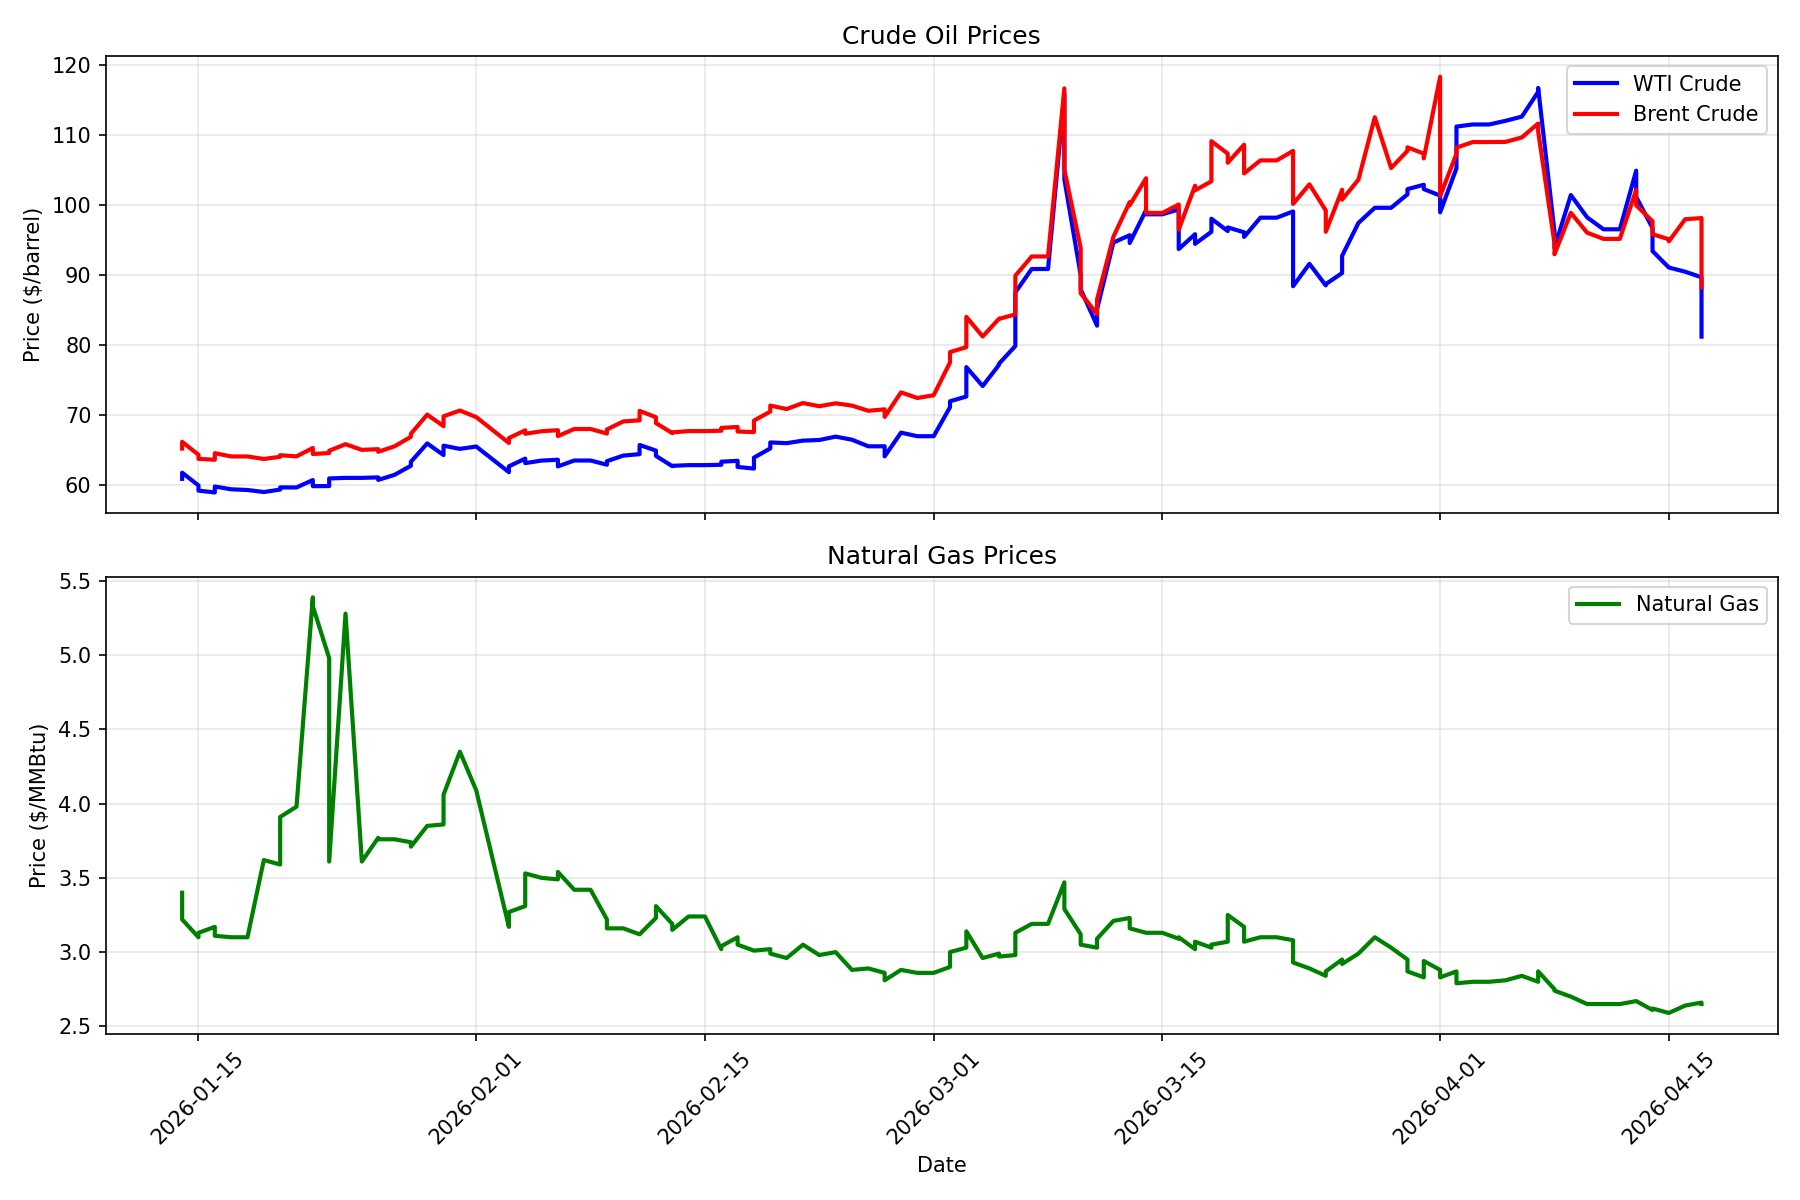
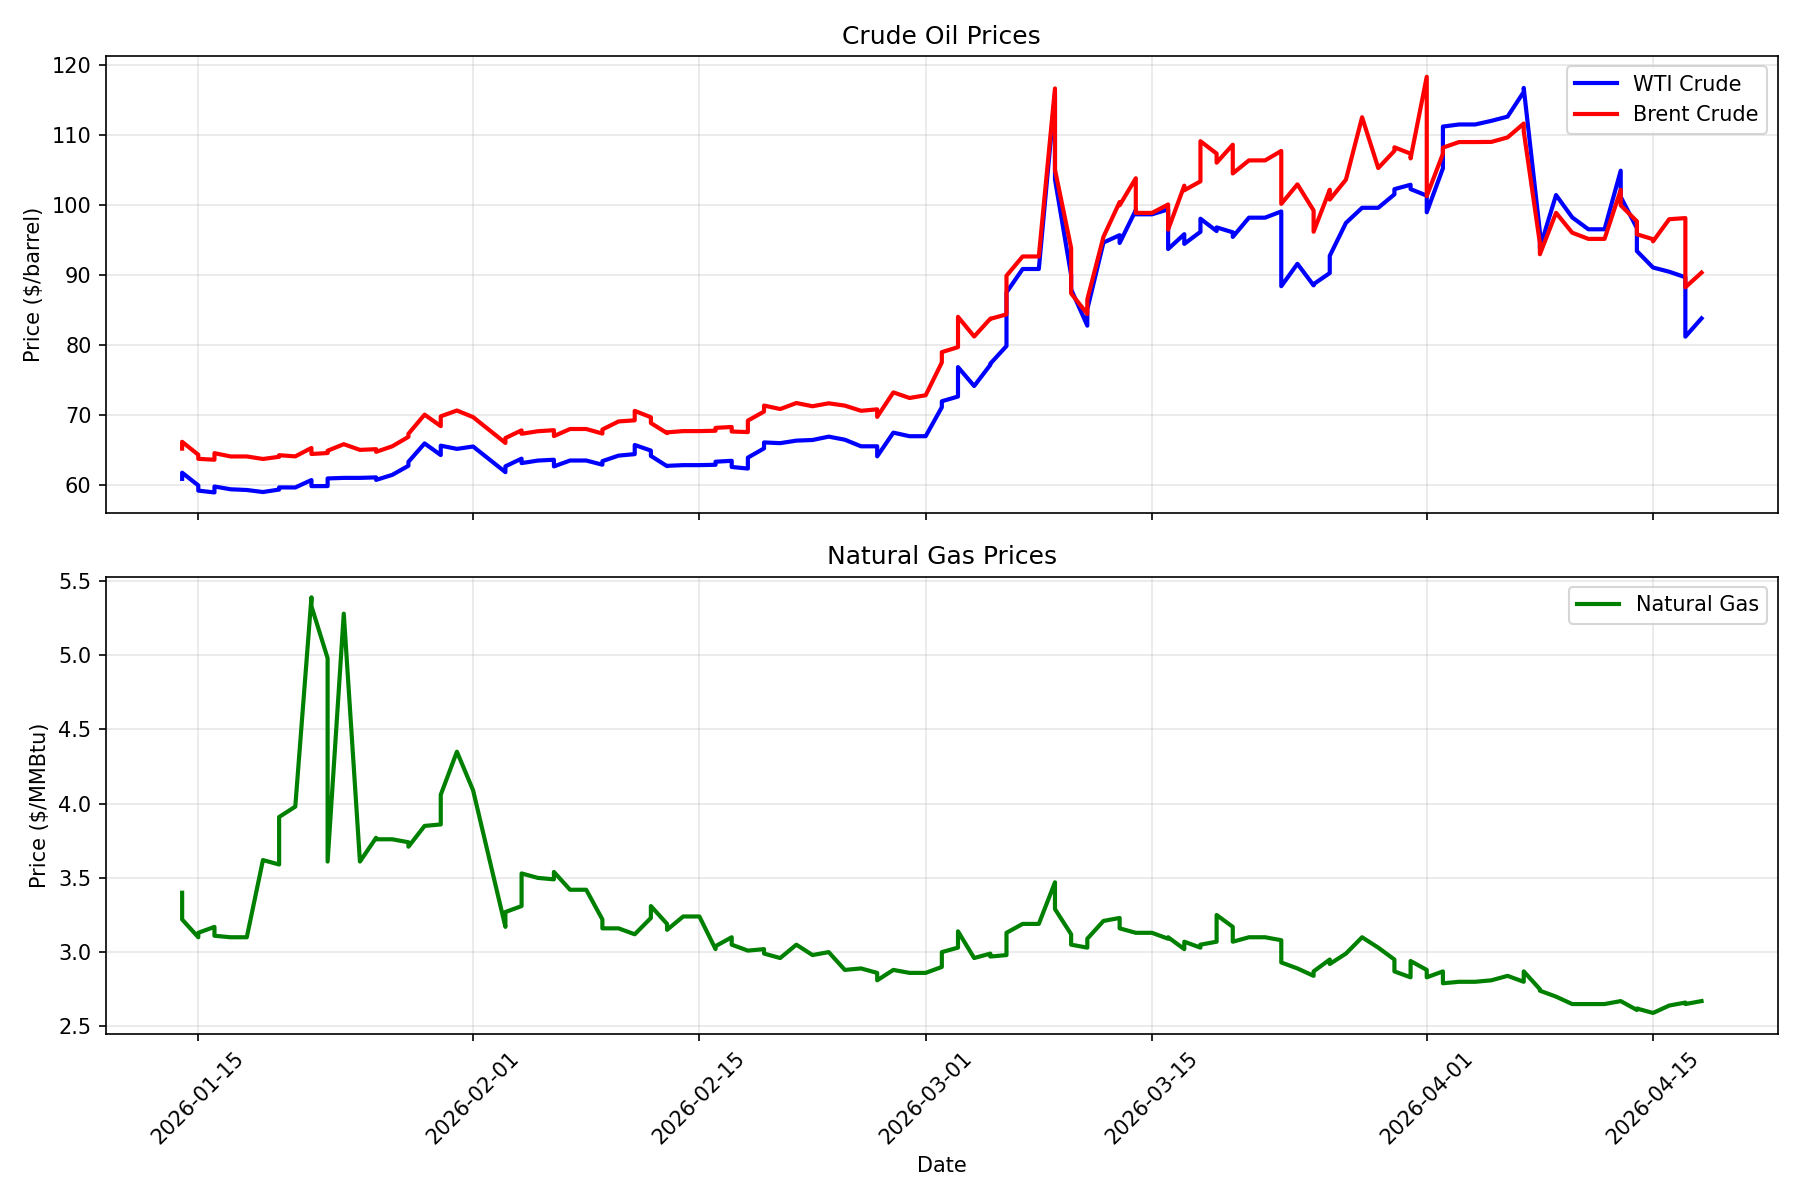
Daily price update: 2026-04-18

diff --git a/README.md b/README.md
@@ -2,29 +2,29 @@
 
 Automated daily tracking of chemical commodity prices and chemical company stocks.
 
-## Latest Prices (Updated: 2026-04-17)
+## Latest Prices (Updated: 2026-04-18)
 
 ### Energy Commodities
 
 | Commodity | Price | Change (24h) | Unit |
 |-----------|-------|--------------|------|
-| WTI Crude Oil | $81.24 | -13.45 (-14.20%) | $/barrel |
-| Brent Crude Oil | $88.29 | -11.10 (-11.17%) | $/barrel |
-| Natural Gas | $2.65 | +0.01 (+0.23%) | $/MMBtu |
-| Heating Oil | $3.22 | -0.61 (-16.03%) | $/gallon |
+| WTI Crude Oil | $83.85 | -10.84 (-11.45%) | $/barrel |
+| Brent Crude Oil | $90.38 | -9.01 (-9.07%) | $/barrel |
+| Natural Gas | $2.67 | +0.03 (+1.02%) | $/MMBtu |
+| Heating Oil | $3.40 | -0.44 (-11.36%) | $/gallon |
 
 ### Chemical Company Stocks
 
 | Company | Ticker | Price | Change (24h) |
 |---------|--------|-------|--------------|
-| Dow Inc. | DOW | $35.71 | -4.21 (-10.55%) |
-| LyondellBasell | LYB | $67.05 | -8.24 (-10.94%) |
-| DuPont | DD | $47.62 | +0.87 (+1.86%) |
-| Air Products | APD | $292.18 | -5.06 (-1.70%) |
-| Linde | LIN | $492.35 | -6.87 (-1.38%) |
-| Eastman Chemical | EMN | $74.10 | +0.75 (+1.02%) |
-| Celanese | CE | $64.25 | -4.09 (-5.99%) |
-| Huntsman | HUN | $13.44 | -0.30 (-2.15%) |
+| Dow Inc. | DOW | $35.60 | -4.32 (-10.82%) |
+| LyondellBasell | LYB | $66.27 | -9.02 (-11.98%) |
+| DuPont | DD | $47.35 | +0.60 (+1.28%) |
+| Air Products | APD | $291.81 | -5.43 (-1.83%) |
+| Linde | LIN | $492.23 | -6.99 (-1.40%) |
+| Eastman Chemical | EMN | $73.78 | +0.43 (+0.59%) |
+| Celanese | CE | $62.03 | -6.31 (-9.23%) |
+| Huntsman | HUN | $13.35 | -0.39 (-2.84%) |
 
 ## Data Sources
 

diff --git a/logs/update_log.md b/logs/update_log.md
@@ -167,3 +167,4 @@ Daily updates to the chemical engineering data repository.
 - **2026-04-16 14:33:21**: Updated 4 energy prices, 8 stocks, 0 FRED series
 - **2026-04-17 00:32:50**: Updated 4 energy prices, 8 stocks, 0 FRED series
 - **2026-04-17 14:25:09**: Updated 4 energy prices, 8 stocks, 0 FRED series
+- **2026-04-18 00:00:05**: Updated 4 energy prices, 8 stocks, 0 FRED series
